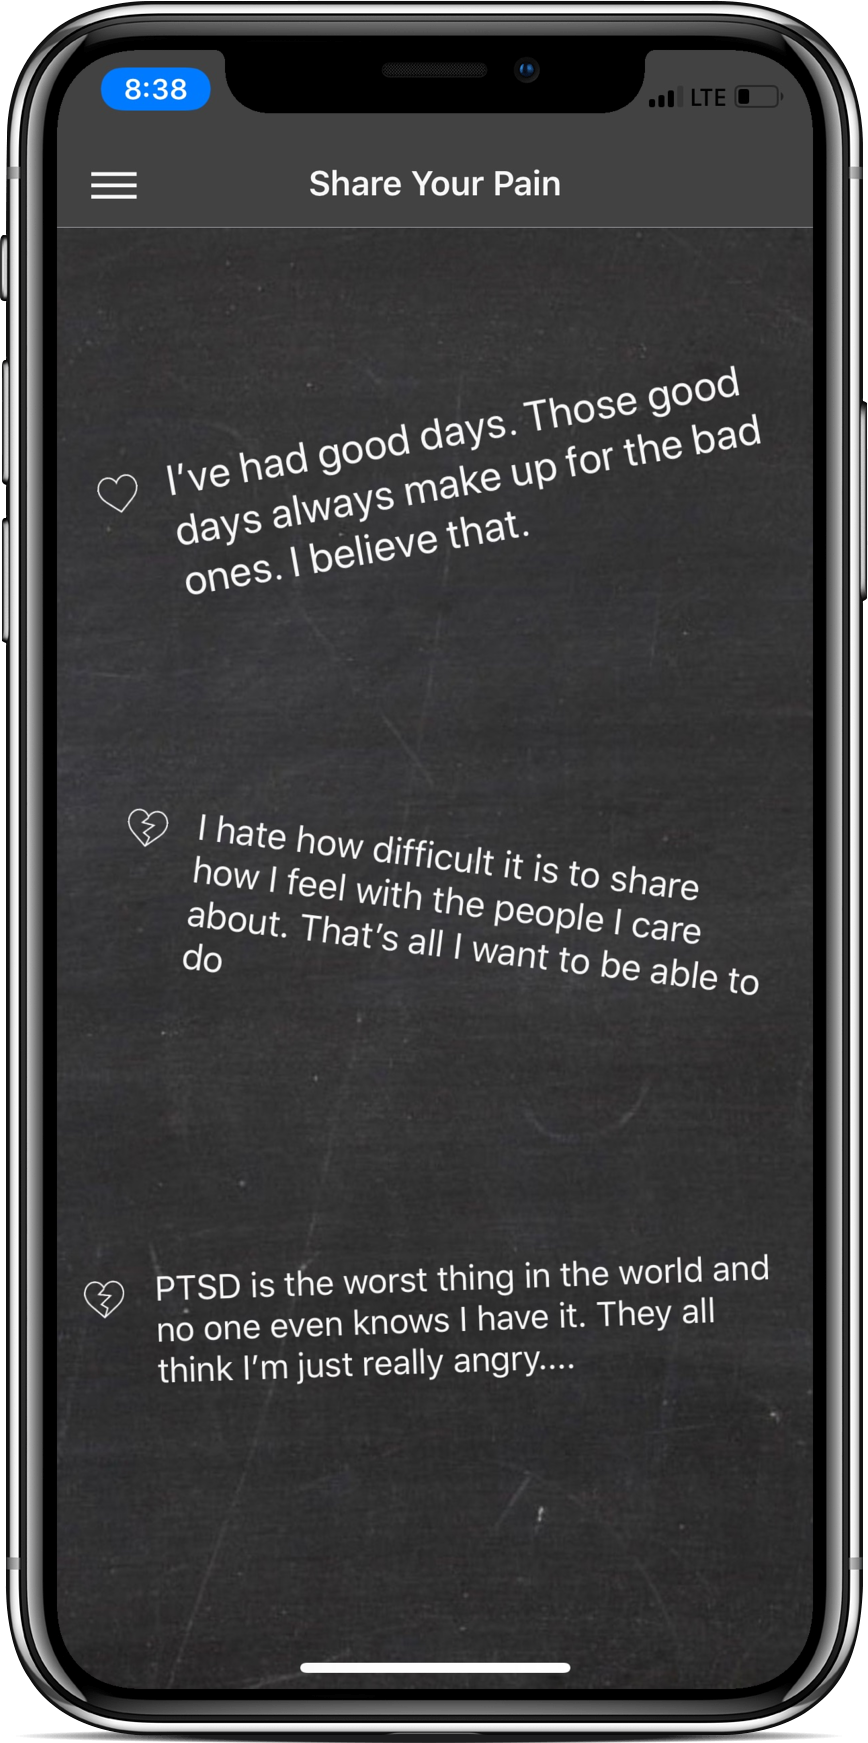
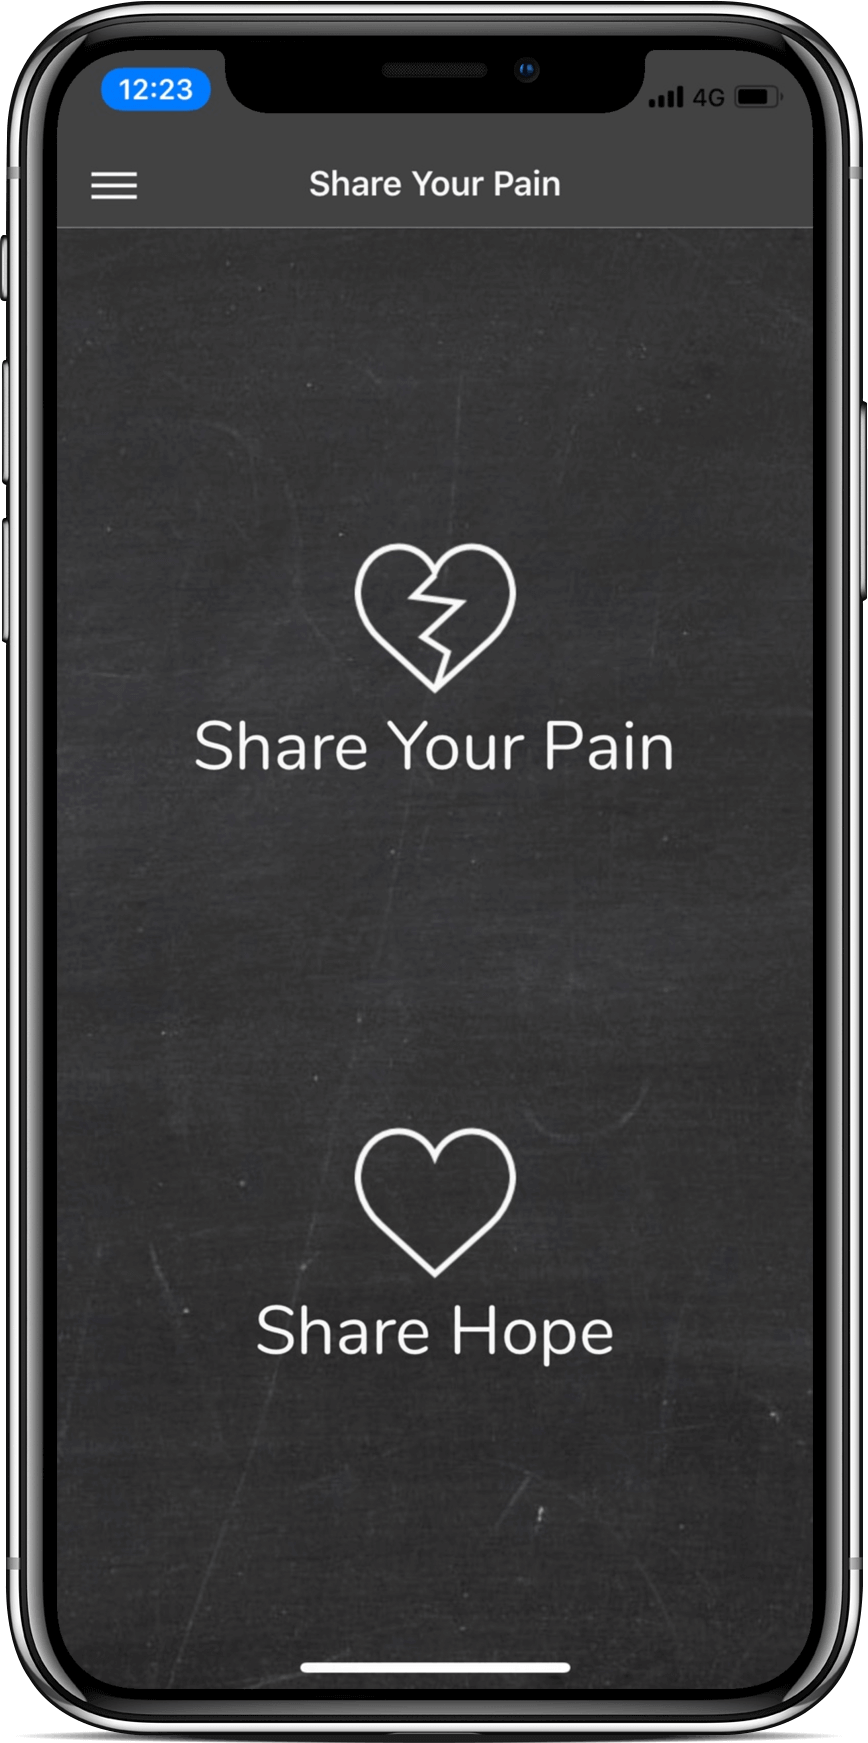
v1

diff --git a/src/routes/SharePage.js b/src/routes/SharePage.js
@@ -7,15 +7,25 @@ class SharePage extends Component {
         super(props);
         this.state={
             storyText: '',
-            submitted: false
+            submitted: false,
+            storyType: '',
+            submitting: false
         }
     }
 
     handleSubmitStory(){
+        if(this.state.submitting){ return };
+        this.setState({submitting: true});
+        let randomWidth = Math.floor(Math.random() * Math.floor(20)) + 70;
+        let storyStyle = JSON.stringify({
+            tiltAngle: Math.floor(Math.random() * Math.floor(20))-10, //int between -10 and 10
+            randomMargin: Math.floor(Math.random() * Math.floor(20))+40, //int between 5 and 25
+            randomWidth: randomWidth,
+            randomFontSize: Math.floor(Math.random() * Math.floor(6)) + 16,
+            leftBoxWidth: Math.floor(Math.random() * Math.floor(100-randomWidth)), //move so they arent aligned on left always
+        });
 
-        //TODO implement custom story styles. copy from mobile
-
-        fetch('https://shareyourpain.herokuapp.com/enterstory', {
+        fetch('/enterstory', {
           method: 'POST',
           headers: {
             Accept: 'application/json',
@@ -23,10 +33,10 @@ class SharePage extends Component {
           },
           body: JSON.stringify({
             storyBody: this.state.storyText,
-            // color: this.state.selectedColor, 
-            // font: this.state.selectedFont,
-            // type: this.props.navigation.state.params.storyType,
-            // style: storyStyle
+            color: null, 
+            font: null,
+            type: this.state.storyType,
+            style: storyStyle
           }),
         }).then(result => {
             this.setState({submitted: true});
@@ -43,15 +53,34 @@ class SharePage extends Component {
     }
 
     render() {
+        let buttonContent = this.state.submitting ? <span>...</span> : <span>Share</span>;
+
+        let middle =  this.state.storyType=='' ? 
+            <div style={{marginTop: '20vh'}}>
+                <div style={styles.shareButton} class='col-12 col-md-4 offset-md-4' onClick={() => this.setState({storyType: 'pain'})}>
+                    <img class='mx-auto' src={require('../assets/img/broken_heart.png')} style={styles.heart} />
+                    <h4 style={styles.shareButtonTitle}>Share Your Pain</h4>
+                </div>
+                <div style={{height:20}}></div>
+                <div style={styles.shareButton} class='col-12 col-md-4 offset-md-4' onClick={() => this.setState({storyType: 'hope'})}>
+                    <img class='mx-auto' src={require('../assets/img/heart.png')} style={styles.heart} />
+                    <h4 style={styles.shareButtonTitle}>Share Hope</h4>
+                </div>
+            </div>
+            :
+            <div>
+                <h1 class='lightText text-center' >Share {this.state.storyType=='pain' ? 'your pain': 'hope'}</h1>
+                <p class='lightText text-center' >Don't pause, dont hesitate. Share something...</p>
+                <textarea class='form-control col-12 col-md-6 mx-auto' style={styles.textArea} value={this.state.storyText} onChange={x => this.setState({ storyText: x.target.value })} />
+                <button class='btn btn-light col-12 col-md-6 offset-md-3' onClick={this.handleSubmitStory.bind(this)}>{buttonContent}</button>
+            </div>;
+
         return (
             this.state.submitted ? <Redirect to="/stories" /> :
             <div class='chalkboard'>
                 <MyNavbar/>
                 <div class='container mx-auto' style={styles.container}>
-                    <h1 class='lightText text-center' >Share</h1>
-                    <p class='lightText text-center' >some text here...</p>
-                    <textarea class='form-control col-12 col-md-6 mx-auto' style={styles.textArea} value={this.state.storyText} onChange={x => this.setState({ storyText: x.target.value })} />
-                    <button class='btn btn-light col-12 col-md-6 offset-md-3' onClick={this.handleSubmitStory.bind(this)}>Share</button>
+                    {middle}
                 </div>
             </div>
         );
@@ -66,6 +95,20 @@ const styles = {
     },
     container: {
         paddingTop: 70
+    },
+    shareButton: {
+        alignItems: 'center',
+        paddingTop: 40,
+        cursor: 'pointer'
+    },
+    shareButtonTitle: {
+        color: '#f7f7f7',
+        textAlign: 'center'
+    },
+    heart: {
+        height: 30,
+        display: 'block'
+
     }
 }
 

diff --git a/src/routes/Homepage.js b/src/routes/Homepage.js
@@ -46,10 +46,15 @@ class Homepage extends Component {
                 <div class="row h-100">
                   <div class="col-lg-7 my-auto">
                     <div class="header-content mx-auto">
-                      <h1 class="mb-5">This app is about title text here and the description</h1>
+                      <h1 class="mb-5">Share Your Pain</h1>
+                      <p>designed to provide you with a safe space to overcome emotional pain by sharing your feelings, unfiltered and without fear of judgement or shaming.</p>
                         <Link to='/share' class="nav-link js-scroll-trigger">
-                            <div class="btn btn-light btn-xl col-12 col-md-6 mx-auto" style={styles.tryButton}><span class='lightText'>Try It Now</span></div>
+                            <div class="btn btn-xl col-12 col-md-6" style={styles.tryButton} id='tryButton'><span class='lightText'>Try It Now</span></div>
                         </Link>
+                        <div class="badges" style={{marginTop:30}}>
+                          <a class="badge-link" href="#" onClick={() => alert('This app is currently being submitted, please check back soon!')}><img src={require("../assets/img/google-play-badge.svg")} alt=""/></a>
+                          <a class="badge-link" href="#" onClick={() => alert('This app is currently being submitted, please check back soon!')}><img src={require("../assets/img/app-store-badge.svg")} alt=""/></a>
+                        </div>
                       
                     </div>
                   </div>
@@ -75,14 +80,14 @@ class Homepage extends Component {
                   </div>
                 </div>
               </div>
-            </section>
+            </section> */}
 
-            <section class="features" id="features">
+            {/* <section class="features" id="features">
               <div class="container">
                 <div class="section-heading text-center">
                   <h2>Unlimited Features, Unlimited Fun</h2>
                   <p class="text-muted">Check out what you can do with this app theme!</p>
-                  <hr>
+                  <hr/>
                 </div>
                 <div class="row">
                   <div class="col-lg-4 my-auto">
@@ -90,7 +95,7 @@ class Homepage extends Component {
                       <div class="device-mockup iphone6_plus portrait white">
                         <div class="device">
                           <div class="screen">
-                            <img src="img/demo-screen-1.jpg" class="img-fluid" alt="">
+                            <img src="img/demo-screen-1.jpg" class="img-fluid" alt="" />
                           </div>
                           <div class="button">
                           </div>
@@ -126,7 +131,7 @@ class Homepage extends Component {
                         </div>
                         <div class="col-lg-6">
                           <div class="feature-item">
-                            <i class="icon-lock-open text-primary"></i>
+                            <i class="icon-lock text-primary"></i>
                             <h3>Open Source</h3>
                             <p class="text-muted">Since this theme is MIT licensed, you can use it commercially!</p>
                           </div>
@@ -141,14 +146,14 @@ class Homepage extends Component {
             <section class="cta">
               <div class="cta-content">
                 <div class="container">
-                  <h2>Stop waiting.<br>Start building.</h2>
-                  <a href="#contact" class="btn btn-outline btn-xl js-scroll-trigger">Let's Get Started!</a>
+                  <h2>Stop waiting.<br/>Start building.</h2>
+                  <a href="/share" class="btn btn-outline btn-xl js-scroll-trigger">Let's Get Started!</a>
                 </div>
               </div>
               <div class="overlay"></div>
-            </section>
+            </section> */}
 
-            <section class="contact bg-primary" id="contact">
+            {/*<section class="contact bg-primary" id="contact">
               <div class="container">
                 <h2>We
                   <i class="fa fa-heart"></i>
@@ -204,7 +209,7 @@ const styles = {
         maxWidth: '100%',
     },
     tryButton: {
-        backgroundColor: 'transparent',
+        // backgroundColor: 'transparent',
         borderWidth: 1,
         borderColor: "#f7f7f7",
         height:40,

diff --git a/src/routes/ViewStoriesPage.js b/src/routes/ViewStoriesPage.js
@@ -2,6 +2,8 @@ import React, { Component } from 'react';
 import Story from '../components/Story';
 import MyNavbar from '../components/MyNavbar';
 
+import heart from '../assets/img/heart.png';
+import broken_heart from '../assets/img/broken_heart.png';
 
 const testStories = [
     { body: 'asd ad asd asdhjkas kjdha fjkasdhf auisdfhu hudsafui asiudfhuiasdufi asudihf asiudfgaguisdfuigasd' },
@@ -22,7 +24,7 @@ class ViewStoriesPage extends Component {
     }
 
 componentWillMount(){
-    fetch('https://shareyourpain.herokuapp.com/getstories', {
+    fetch('/getstories', {
       method: 'GET',
       credentials: 'same-origin',
       headers: {
@@ -48,14 +50,18 @@ componentWillMount(){
             <div class='chalkboard'>
                 <MyNavbar />
                 <div class='container' style={styles.container}>
-                    {/* <h1 class='lightText'>ViewStoriesPage</h1> */}
-                    {this.state.stories.map((item, index) => {
-                        return(
-                            <Story
-                                item={item}
-                            />
-                        )
-                    })}
+                    <div class='row'>
+                        {/* <h1 class='lightText'>ViewStoriesPage</h1> */}
+                        {this.state.stories.map((item, index) => {
+                            return(
+                                <Story
+                                    item={item}
+                                    heart={heart}
+                                    brokenHeart={broken_heart}
+                                />
+                            )
+                        })}
+                    </div>
                 </div>
             </div>
         );

diff --git a/src/assets/css/new-age.css b/src/assets/css/new-age.css
@@ -59,7 +59,7 @@ section h2 {
 
 #mainNav {
   border-color: rgba(34, 34, 34, 0.05);
-  background-color: white;
+  background-color: rgba(100,100,100, .9);
   -webkit-transition: all .35s;
   -moz-transition: all .35s;
   transition: all .35s;
@@ -80,7 +80,7 @@ section h2 {
 #mainNav .navbar-toggler {
   font-size: 12px;
   padding: 8px 10px;
-  color: #222222;
+  color: #f5f5f5;
 }
 
 #mainNav .navbar-nav > li > a {
@@ -100,7 +100,7 @@ section h2 {
 
 #mainNav .navbar-nav > li > a,
 #mainNav .navbar-nav > li > a:focus {
-  color: #222222;
+  color: #f5f5f5;
 }
 
 #mainNav .navbar-nav > li > a:hover,
@@ -161,6 +161,7 @@ header.masthead {
   background: url("../img/bg-pattern3.png"), linear-gradient(to left, #686868, #1a1a1a);
 } */
 
+
 header.masthead .header-content {
   max-width: 500px;
   margin-bottom: 100px;
@@ -207,21 +208,22 @@ section.download h2 {
   margin-top: 0;
 }
 
-section.download .badges .badge-link {
+.badges .badge-link {
   display: block;
   margin-bottom: 25px;
+  margin-left: 10px;
 }
 
-section.download .badges .badge-link:last-child {
+.badges .badge-link:last-child {
   margin-bottom: 0;
 }
 
-section.download .badges .badge-link img {
+.badges .badge-link img {
   height: 60px;
 }
 
 @media (min-width: 768px) {
-  section.download .badges .badge-link {
+  .badges .badge-link {
     display: inline-block;
     margin-bottom: 0;
   }

diff --git a/src/components/Story.js b/src/components/Story.js
@@ -14,7 +14,19 @@ class Story extends React.PureComponent {
         // let customStyle = JSON.parse(this.props.item.style);
 
         return (
-            <p class='lightText' style={styles.bodyText}>{this.props.item.body}</p>
+            <div class='col-12 col-md-6 offset-md-3'>
+            {/* <div class='row'> */}
+                    <div style={{
+                        ...styles.wrapper
+
+                        }} class='row'>
+                        <div class='col-1'>
+                            <img src={imageSource} style={styles.heart} />
+                        </div>
+                        <p class='lightText col-11' style={styles.bodyText}>{this.props.item.body}</p>
+                    </div>
+                {/* </div> */}
+            </div>
         )
     }
 }
@@ -28,11 +40,17 @@ const styles = {
         minHeight: 100
     },
     bodyText: {
-        marginTop: 40
+        margin: 0
     },
     heart: {
         margin: 5,
         height: 20,
-        width: 20
+        width: 20,
+        display: 'block'
+    },
+    wrapper: {
+        margin: 40,
+        alignItems: 'center',
+        flex: 1
     }
 }

diff --git a/src/components/MyNavbar.js b/src/components/MyNavbar.js
@@ -34,7 +34,7 @@ class MyNavbar extends Component {
 
         return (
 
-            <nav class="navbar navbar-expand-lg navbar-light fixed-top" id="mainNav">
+            <nav class="navbar navbar-expand-lg navbar-light fixed-top" id="mainNav" >
               <div class="container">
                 {/* <a class="navbar-brand js-scroll-trigger" href="#page-top">SYP</a> */}
                 <img class='brand-img' src={logo} style={{ height: 45, backgroundSize: 'contain', backgroundRepeat: 'no-repeat' }} />
